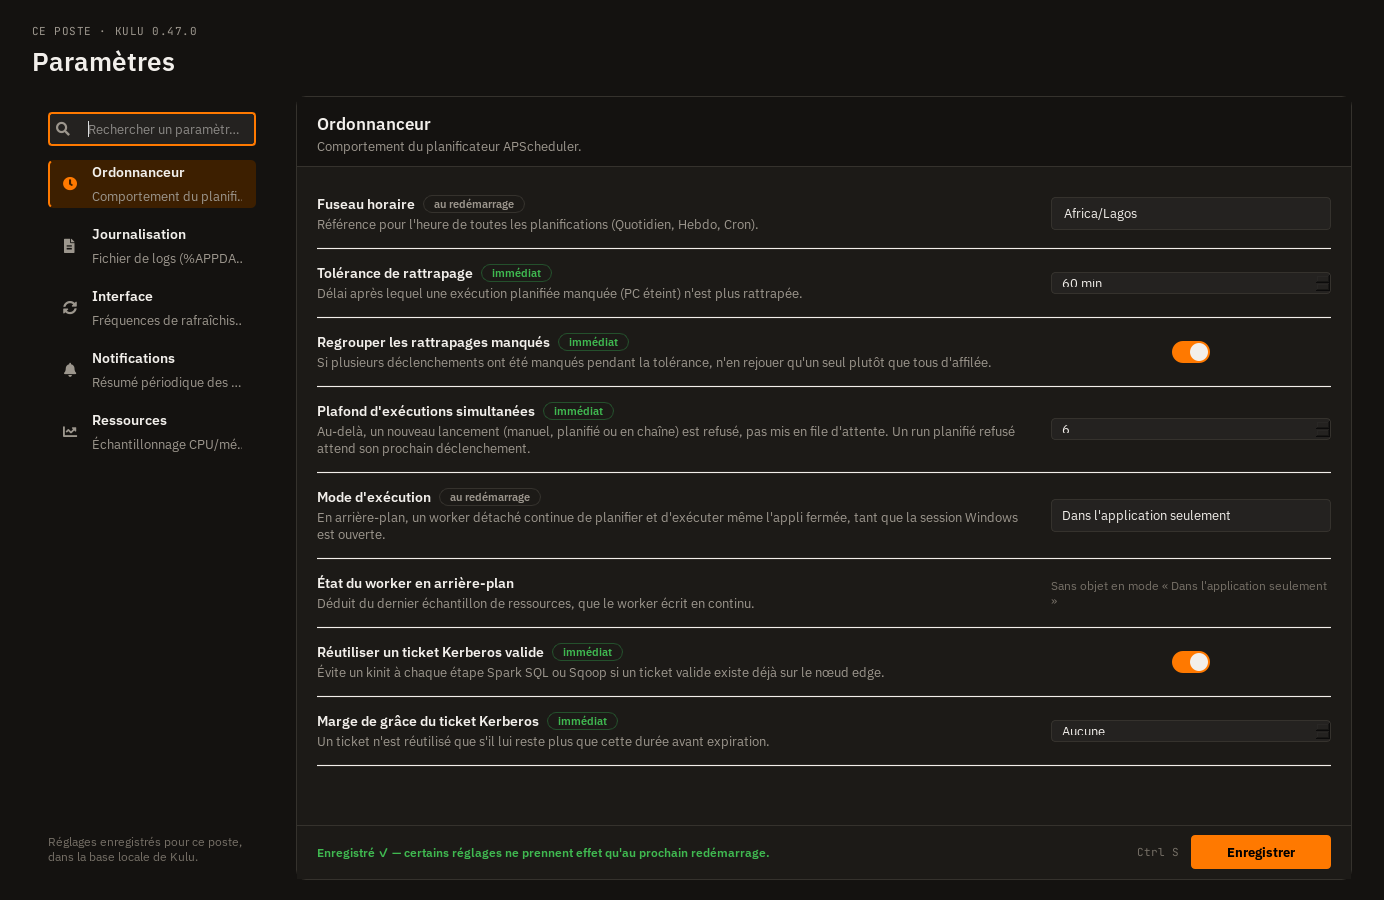
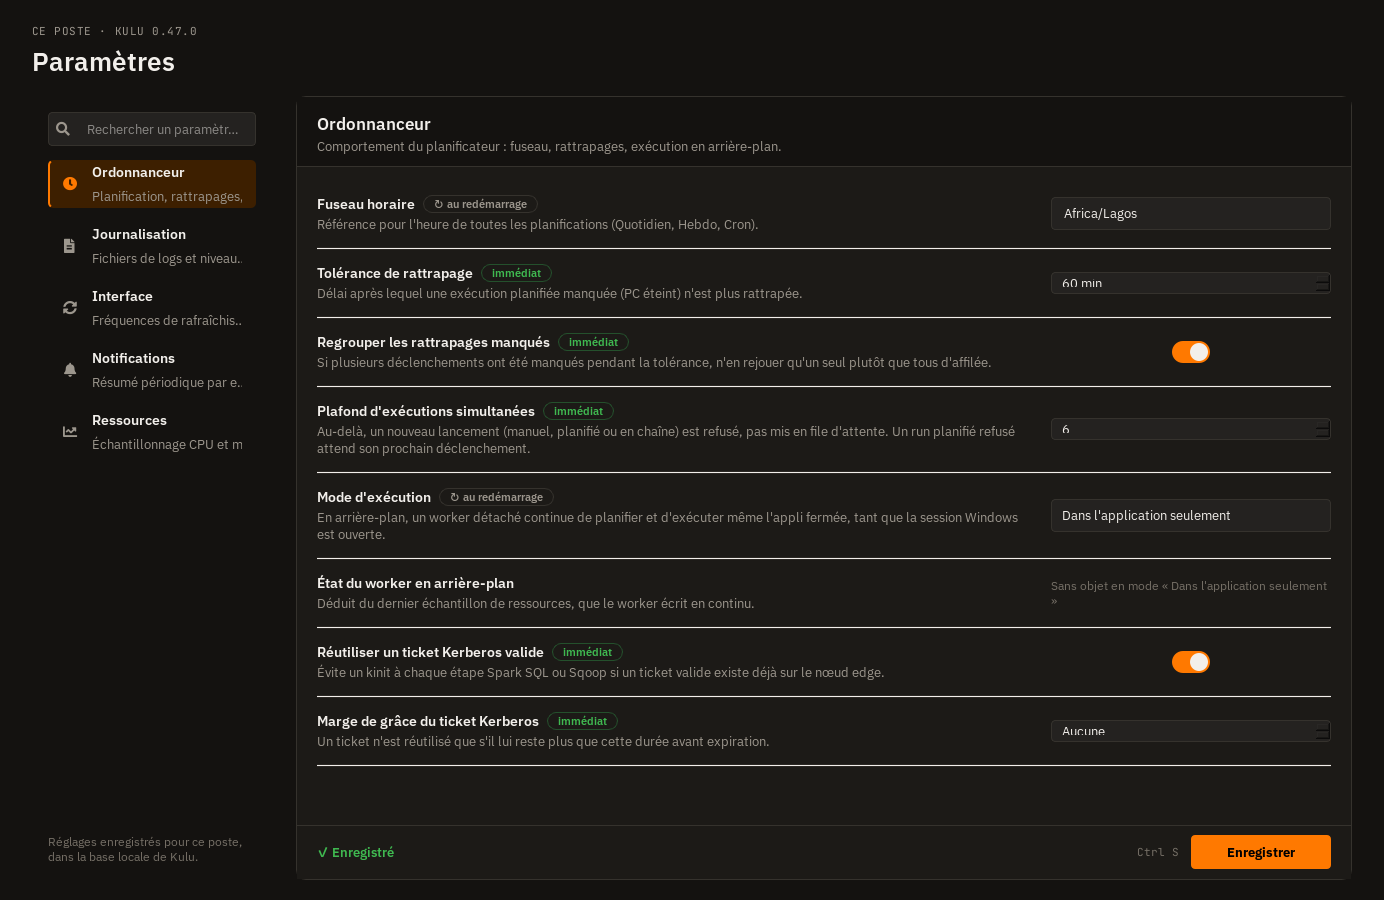
fix(lot-A-parametres): relecture complete contre les 7 maquettes Parametres*.png
Sur demande explicite de relecture (les elements proposes/C1-C8 restent hors
perimetre, gates par la decision P1 toujours "a trancher"), comparaison du
HTML brut de chaque maquette contre le code plutot que du seul rendu visuel.
Trois ecarts reels trouves et corriges, sans rapport avec P1 :

- Rail et panneau de detail reutilisaient le meme texte de sous-titre par
  categorie, alors que la maquette distingue un texte court (rail) d'un texte
  plus long (detail) - _CATEGORIES gagne un champ `desc` distinct de `sub`.
- La pastille "au redemarrage" perdait sa petite icone de rechargement de la
  maquette (make_info_pill gagne un parametre `icon` optionnel).
- Le texte par defaut du pied "Aucune modification" n'etait jamais affiche ;
  les messages de succes/echec n'avaient pas l'icone de la maquette (point
  plein, coche) ni la bonne taille (12.5px) ; le texte de succes contenait une
  clause inventee qui empietait sur le bandeau detaille de C4 (gated) -
  simplifie a "Enregistre", conforme a Parametres-enregistre.html.

Effet de bord trouve en chemin : chaque capture officielle montrait a tort le
champ de recherche avec sa bordure de focus, meme sur les etats qui ne
simulent aucune saisie - artefact de scripts/capture_views.py (view.show()
sur une fenetre top-level sans parent donne le focus par defaut au premier
widget focusable), corrige pour ne garder ce focus que sur l'etat recherche.

Suite complete verte (1611 passed). Captures officielles regenerees.

diff --git a/ui/main_window/settings_view.py b/ui/main_window/settings_view.py
@@ -28,16 +28,28 @@ from ui.components import make_page_header, make_info_pill, make_banner, make_sw
 from .widgets import _icon, _make_search_input
 
 _CATEGORIES = [
+    # "sub" (rail, court) et "desc" (panneau de détail, plus long) sont deux textes distincts sur
+    # la maquette (Parametres.html : "Planification, rattrapages, exécution en arrière-plan" au
+    # rail vs "Comportement du planificateur : fuseau, rattrapages, exécution en arrière-plan."
+    # en détail) — une relecture avait fusionné les deux en un seul texte, repris tel quel aux
+    # deux endroits. "desc" pour Journalisation/Interface/Ressources n'a pas d'équivalent sur une
+    # maquette (seuls Ordonnanceur et Notifications ont leur panneau de détail capturé) : gardé
+    # tel que déjà écrit, faute de référence à reprendre.
     {"key": "scheduler",     "label": "Ordonnanceur",    "icon": "fa5s.clock",
-     "sub": "Comportement du planificateur APScheduler."},
+     "sub": "Planification, rattrapages, exécution en arrière-plan",
+     "desc": "Comportement du planificateur : fuseau, rattrapages, exécution en arrière-plan."},
     {"key": "logging",       "label": "Journalisation",  "icon": "fa5s.file-alt",
-     "sub": "Fichier de logs (%APPDATA%/DataScheduler/logs)."},
+     "sub": "Fichiers de logs et niveau de détail",
+     "desc": "Fichier de logs (%APPDATA%/DataScheduler/logs)."},
     {"key": "interface",     "label": "Interface",       "icon": "fa5s.sync-alt",
-     "sub": "Fréquences de rafraîchissement automatique."},
+     "sub": "Fréquences de rafraîchissement",
+     "desc": "Fréquences de rafraîchissement automatique."},
     {"key": "notifications", "label": "Notifications",   "icon": "fa5s.bell",
-     "sub": "Résumé périodique des exécutions par email."},
+     "sub": "Résumé périodique par email",
+     "desc": "Résumé périodique des exécutions par email."},
     {"key": "resources",     "label": "Ressources",      "icon": "fa5s.chart-line",
-     "sub": "Échantillonnage CPU/mémoire de la vue Ressources."},
+     "sub": "Échantillonnage CPU et mémoire",
+     "desc": "Échantillonnage CPU/mémoire de la vue Ressources."},
 ]
 
 # Liste complète des fuseaux IANA réels (via tzdata, déjà une dépendance du projet pour
@@ -51,11 +63,13 @@ _LOG_LEVELS = ["DEBUG", "INFO", "WARNING", "ERROR"]
 _CATEGORY_SUB_WIDTH = 150   # px — largeur dispo connue d'avance (rail 240px, largeur fixe)
 
 # Pastille de prise d'effet (A4, docs/refonte/ecrans/Parametres.md) : variante + infobulle par
-# texte exact, pour que _add_row() n'ait qu'à recevoir le texte déjà écrit dans la fiche.
+# texte exact, pour que _add_row() n'ait qu'à recevoir le texte déjà écrit dans la fiche. Seule
+# "au redémarrage" porte une icône sur la maquette (petite flèche de rechargement) ; les deux
+# autres variantes n'en ont pas (confirmé sur Parametres.html et Parametres-recherche.html).
 _BADGE_INFO = {
-    "au redémarrage": ("neutral", "Prend effet au prochain démarrage de Kulu"),
-    "à la prochaine ouverture": ("neutral", "Prend effet à la prochaine ouverture de l'écran"),
-    "immédiat": ("success", "Prend effet immédiatement"),
+    "au redémarrage": ("neutral", "Prend effet au prochain démarrage de Kulu", "↻"),
+    "à la prochaine ouverture": ("neutral", "Prend effet à la prochaine ouverture de l'écran", ""),
+    "immédiat": ("success", "Prend effet immédiatement", ""),
 }
 
 
@@ -329,11 +343,12 @@ class SettingsView(QWidget):
         footer = QHBoxLayout(footer_wrap)
         footer.setContentsMargins(20, 10, 20, 10)
         footer.setSpacing(12)
+        # Texte par défaut "Aucune modification" repris de Parametres.html (pas de pastille
+        # "proposé" dessus, contrairement au compteur dynamique "N réglages modifiés" de la même
+        # zone sur Parametres-arriere-plan.html — celui-là est C1, gated par la décision P1).
         self._save_status_lbl = QLabel("")
-        self._save_status_lbl.setStyleSheet(
-            f"color: {COLORS['success']}; font-size: 12px; font-weight: 600; border: none; "
-            f"background: transparent;")
         footer.addWidget(self._save_status_lbl)
+        self._reset_save_status_lbl()
         footer.addStretch()
         ctrl_s_hint = QLabel("Ctrl S")
         ctrl_s_hint.setStyleSheet(
@@ -392,8 +407,8 @@ class SettingsView(QWidget):
             f"background: transparent;")
         label_row.addWidget(lbl)
         if badge:
-            variant, tooltip = _BADGE_INFO[badge]
-            pill = make_info_pill(badge, variant=variant, tooltip=tooltip)
+            variant, tooltip, icon = _BADGE_INFO[badge]
+            pill = make_info_pill(badge, variant=variant, tooltip=tooltip, icon=icon)
             # alignment=AlignVCenter : sans lui, QHBoxLayout étire le QLabel sur toute la hauteur
             # de la ligne (son texte reste ancré en haut, la bordure/le fond de make_info_pill
             # peint tout le rectangle étiré — même bug que le chip ci-dessus, autre axe).
@@ -707,7 +722,7 @@ class SettingsView(QWidget):
         self._active_category = key
         cat = next(c for c in _CATEGORIES if c["key"] == key)
         self._detail_title.setText(cat["label"])
-        self._detail_sub.setText(cat["sub"])
+        self._detail_sub.setText(cat["desc"])
         self._search_help_lbl.setVisible(False)
         for row in self._category_rows.values():
             row["count_lbl"].setVisible(False)
@@ -808,6 +823,16 @@ class SettingsView(QWidget):
             return 0 <= int(h) <= 23 and 0 <= int(m) <= 59
         except (ValueError, AttributeError):
             return False
+
+    def _reset_save_status_lbl(self):
+        """État de repos du texte à gauche du pied (A8) — "Aucune modification", maquette
+        Parametres.html. Pas une vraie détection de modification (ce serait C1, gated) : affiché
+        tant qu'aucun enregistrement n'est en cours de confirmation, qu'un champ ait été touché
+        ou non."""
+        self._save_status_lbl.setText("Aucune modification")
+        self._save_status_lbl.setStyleSheet(
+            f"color: {COLORS['text_muted']}; font-size: 12.5px; font-weight: 400; border: none; "
+            f"background: transparent;")
 
     def _on_save(self):
         digest_enabled = self.chk_digest_enabled.isChecked()
@@ -910,17 +935,21 @@ class SettingsView(QWidget):
         # tout risque de blocage en environnement offscreen (tests) où rien ne clique le bouton.
         if background_activation_failed:
             self._save_status_lbl.setStyleSheet(
-                f"color: {COLORS['danger']}; font-size: 12px; font-weight: 600; "
+                f"color: {COLORS['danger']}; font-size: 12.5px; font-weight: 600; "
                 f"border: none; background: transparent;")
+            # "● " : petit point plein devant le texte, repris de Parametres-refus.html (même
+            # couleur que le texte, pas une icône séparée — un simple caractère suffit).
             self._save_status_lbl.setText(
-                "Échec de l'activation du mode arrière-plan (accès refusé) — contactez votre "
+                "● Échec de l'activation du mode arrière-plan (accès refusé) — contactez votre "
                 "support informatique. Le mode « Dans l'application seulement » reste actif."
             )
-            QTimer.singleShot(10000, lambda: self._save_status_lbl.setText(""))
+            QTimer.singleShot(10000, self._reset_save_status_lbl)
         else:
             self._save_status_lbl.setStyleSheet(
-                f"color: {COLORS['success']}; font-size: 12px; font-weight: 600; "
+                f"color: {COLORS['success']}; font-size: 12.5px; font-weight: 600; "
                 f"border: none; background: transparent;")
-            self._save_status_lbl.setText(
-                "Enregistré ✓ — certains réglages ne prennent effet qu'au prochain redémarrage.")
-            QTimer.singleShot(4000, lambda: self._save_status_lbl.setText(""))
+            # Texte simplifié à "Enregistré" (Parametres-enregistre.html) : la mention de ce qui
+            # attend un redémarrage appartient au bandeau de succès détaillé de C4 (gated, pas
+            # construit dans ce lot) — pas un texte de repli inventé à sa place.
+            self._save_status_lbl.setText("✓ Enregistré")
+            QTimer.singleShot(4000, self._reset_save_status_lbl)

diff --git a/scripts/capture_views.py b/scripts/capture_views.py
@@ -132,6 +132,18 @@ def capture_all(out_dir: Path) -> list[Path]:
         view.resize(CAPTURE_WIDTH, CAPTURE_HEIGHT)
         view.show()
         app.processEvents()
+        # show() sur une fenêtre top-level sans parent donne le focus clavier au premier widget
+        # focusable (le champ de recherche, premier ajouté au rail) dès que rien d'autre ne l'a
+        # déjà pris — un artefact du script, pas l'état par défaut réel (dans l'app, la vue est
+        # intégrée à une fenêtre déjà active, ce changement de focus n'a pas lieu). Sans ce
+        # nettoyage, la capture montrait à tort une bordure de focus (accent) sur le champ de
+        # recherche même sur les états qui ne simulent aucune saisie utilisateur. Seule la
+        # capture "recherche" doit garder ce focus (une recherche en cours a le curseur dedans,
+        # Parametres-recherche.html).
+        search_box = getattr(view, "inp_search", None)
+        if search_box is not None and name != "parametres-recherche":
+            search_box.clearFocus()
+            app.processEvents()
         out_path = out_dir / f"{name}.png"
         view.grab().save(str(out_path))
         produced.append(out_path)

diff --git a/ui/components/info_pill.py b/ui/components/info_pill.py
@@ -19,11 +19,15 @@ _VARIANTS = {
 }
 
 
-def make_info_pill(text: str, variant: str = "neutral", tooltip: str = "") -> QLabel:
+def make_info_pill(text: str, variant: str = "neutral", tooltip: str = "", icon: str = "") -> QLabel:
     color, border, bg = _VARIANTS[variant]
     border_rule = f"border: 1px solid {border};" if border else "border: none;"
     bg_rule = f"background: {bg};" if bg else "background: transparent;"
-    lbl = QLabel(text)
+    # `icon` : un unique caractère prépendu au texte (ex. "↻" pour "au redémarrage",
+    # Parametres.html — seule la variante "au redémarrage" en a un sur la maquette). Un simple
+    # caractère plutôt qu'une icône qtawesome : la pastille reste un QLabel texte nu, pas un
+    # widget composite (risque de sizeHint déjà rencontré sur ce composant, voir plus bas).
+    lbl = QLabel(f"{icon} {text}" if icon else text)
     # border-radius: 9px, pas la valeur "999px" vue sur la maquette (convention web pour "toujours
     # complètement arrondi, quelle que soit la hauteur") — le moteur QSS de Qt, lui, calcule le
     # sizeHint d'un widget à partir de la valeur numérique du rayon, et une valeur aussi grande

diff --git a/docs/refonte/impact/a-parametres.md b/docs/refonte/impact/a-parametres.md
@@ -120,3 +120,50 @@ commits de ce lot, aucune migration à défaire.
    résiduel » documenté précédemment comme non résolu (bord droit de la ligne active) était la
    même cause racine que le premier bug — confirmé disparu une fois la correction appliquée,
    plutôt qu'une limite de rendu Qt distincte comme supposé initialement.
+8. **Relecture complète contre les 7 maquettes (sur demande explicite)** : après le point 7,
+   l'utilisateur a demandé une nouvelle relecture intégrale des `Parametres-*.png` et de la fiche,
+   estimant qu'« il y a encore des éléments qui manquent ». Comparaison HTML brut (pas seulement
+   visuelle) de chaque maquette contre le code, catégorie par catégorie :
+   - Les éléments manquants repérés portent tous un badge « proposé » visible sur la maquette
+     (encart « Ce qui se passe à l'enregistrement » C2, compteur « N réglages modifiés » + liseré/
+     point par ligne + « Annuler les modifications » C1, bandeau de succès détaillé C4, « testé
+     hier »/aperçu du résumé C5-C6, « Copier le détail » C8) — tous gated par la décision P1
+     (`DECISIONS.md`, toujours « à trancher » : réponse par défaut « oui, comme lots C, après les
+     lots A de tous les écrans »). Confirmé hors périmètre de ce lot, pas une omission.
+   - Trois écarts réels, sans rapport avec P1, ont en revanche été trouvés et corrigés :
+     a. Le sous-titre du rail (`_CATEGORIES[].sub`) et la description du panneau de détail
+        réutilisaient le même texte, alors que la maquette distingue un texte court au rail
+        (« Planification, rattrapages, exécution en arrière-plan ») d'un texte plus long en
+        détail (« Comportement du planificateur : fuseau, rattrapages, exécution en
+        arrière-plan. ») — confirmé par lecture du HTML brut des 5 catégories (rail) et des 2
+        panneaux de détail capturés par une maquette (Ordonnanceur, Notifications). `_CATEGORIES`
+        gagne un champ `desc` distinct de `sub` ; Journalisation/Interface/Ressources n'ont pas de
+        panneau de détail capturé par une maquette, leur `desc` garde le texte déjà en place,
+        faute de référence à reprendre (REGLES.md section 1, le code actuel fait foi à défaut de
+        maquette).
+     b. La pastille « au redémarrage » perdait sa petite icône de rechargement (SVG sur la
+        maquette, confirmée absente des deux autres variantes) — `make_info_pill` gagne un
+        paramètre `icon` optionnel (un caractère préfixé au texte, pas un widget composite, pour
+        ne pas toucher au calcul de sizeHint déjà documenté comme fragile sur ce composant).
+     c. Le texte par défaut du pied « Aucune modification » (Parametres.html, sans badge
+        « proposé ») n'était jamais affiché (le label restait vide hors confirmation d'enregistre-
+        ment) ; les messages de succès/échec n'avaient pas l'icône de la maquette (point plein
+        rouge devant le texte d'échec, coche verte devant « Enregistré ») et utilisaient 12px au
+        lieu de 12,5px. Le texte de succès contenait aussi une clause inventée (« certains
+        réglages ne prennent effet qu'au prochain redémarrage ») qui empiète sur le territoire du
+        bandeau détaillé de C4 (gated) — simplifié à « ✓ Enregistré », conforme à
+        Parametres-enregistre.html.
+   - Effet de bord trouvé pendant cette relecture, sans rapport avec la demande initiale : chaque
+     capture officielle montrait à tort le champ de recherche avec sa bordure de focus (accent),
+     y compris sur les états qui ne simulent aucune saisie — `scripts/capture_views.py` appelle
+     `view.show()` sur une fenêtre top-level sans parent, qui donne par défaut le focus clavier au
+     premier widget focusable (le champ de recherche) ; ça ne reproduit pas l'app réelle, où la
+     vue est intégrée à une fenêtre déjà active. Corrigé en vidant ce focus après `show()`, sauf
+     pour l'état "recherche" qui doit le garder (Parametres-recherche.html).
+   - Les 7 maquettes ont aussi servi à vérifier, sans rien changer, que des écarts déjà tranchés
+     dans ce document restaient corrects : absence de pastilles « immédiat » sur certaines lignes
+     de la maquette (la fiche prime, déjà couvert par ce point avant ce lot), absence du chip
+     « Ctrl F » dans la recherche (C7, gated — seul A8/« Ctrl S » au pied est explicitement listé
+     hors C7 par la fiche), icônes de catégorie du rail visuellement différentes des SVG de la
+     maquette (aucune des deux sources de priorité — fiche, REGLES.md section 3 — n'exige une
+     correspondance pixel près des icônes, contrairement aux couleurs/tailles/espacements/textes).
